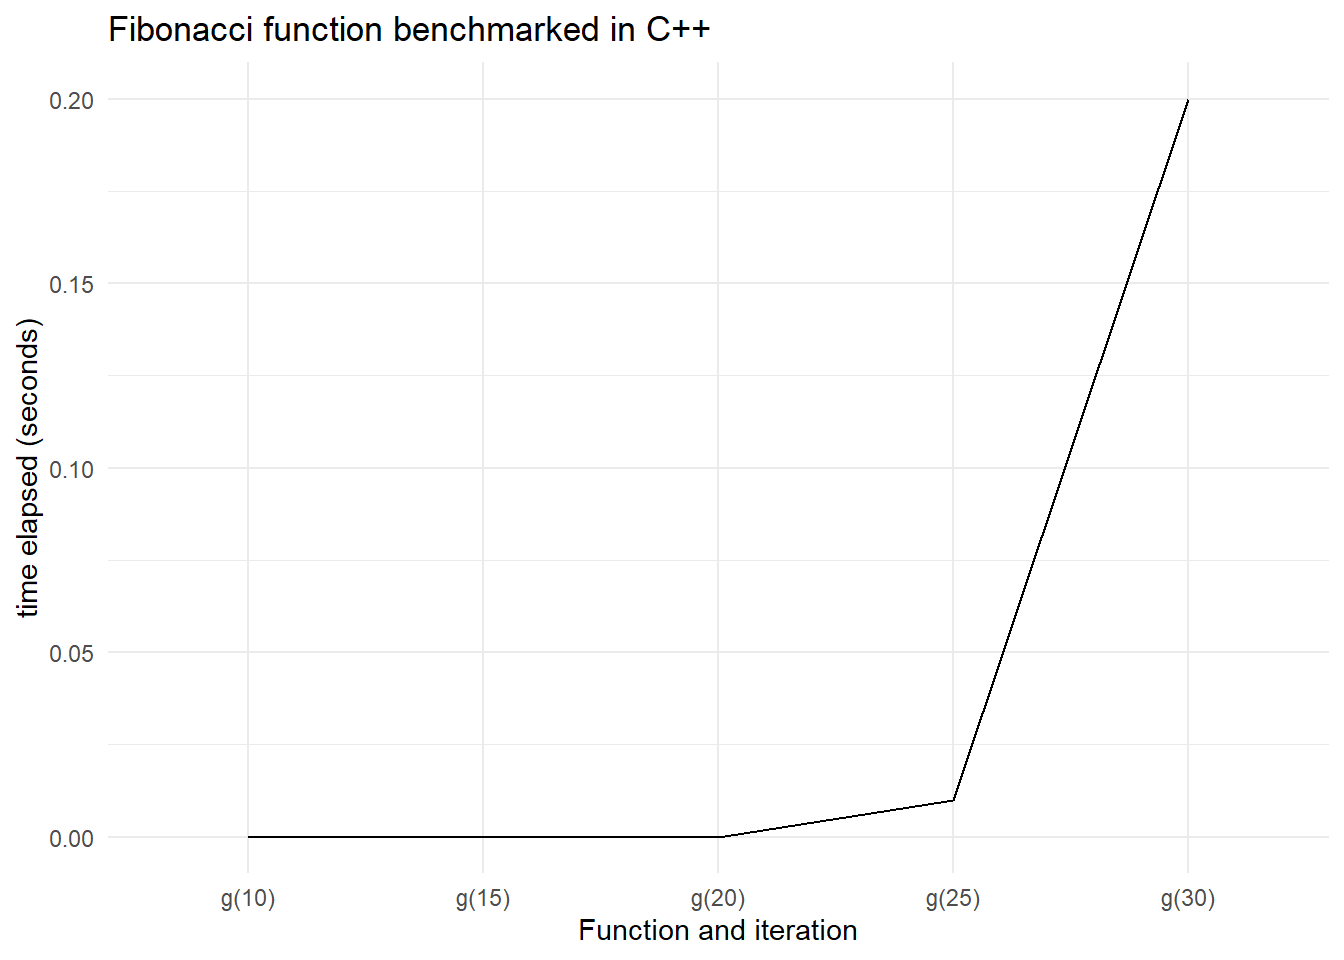
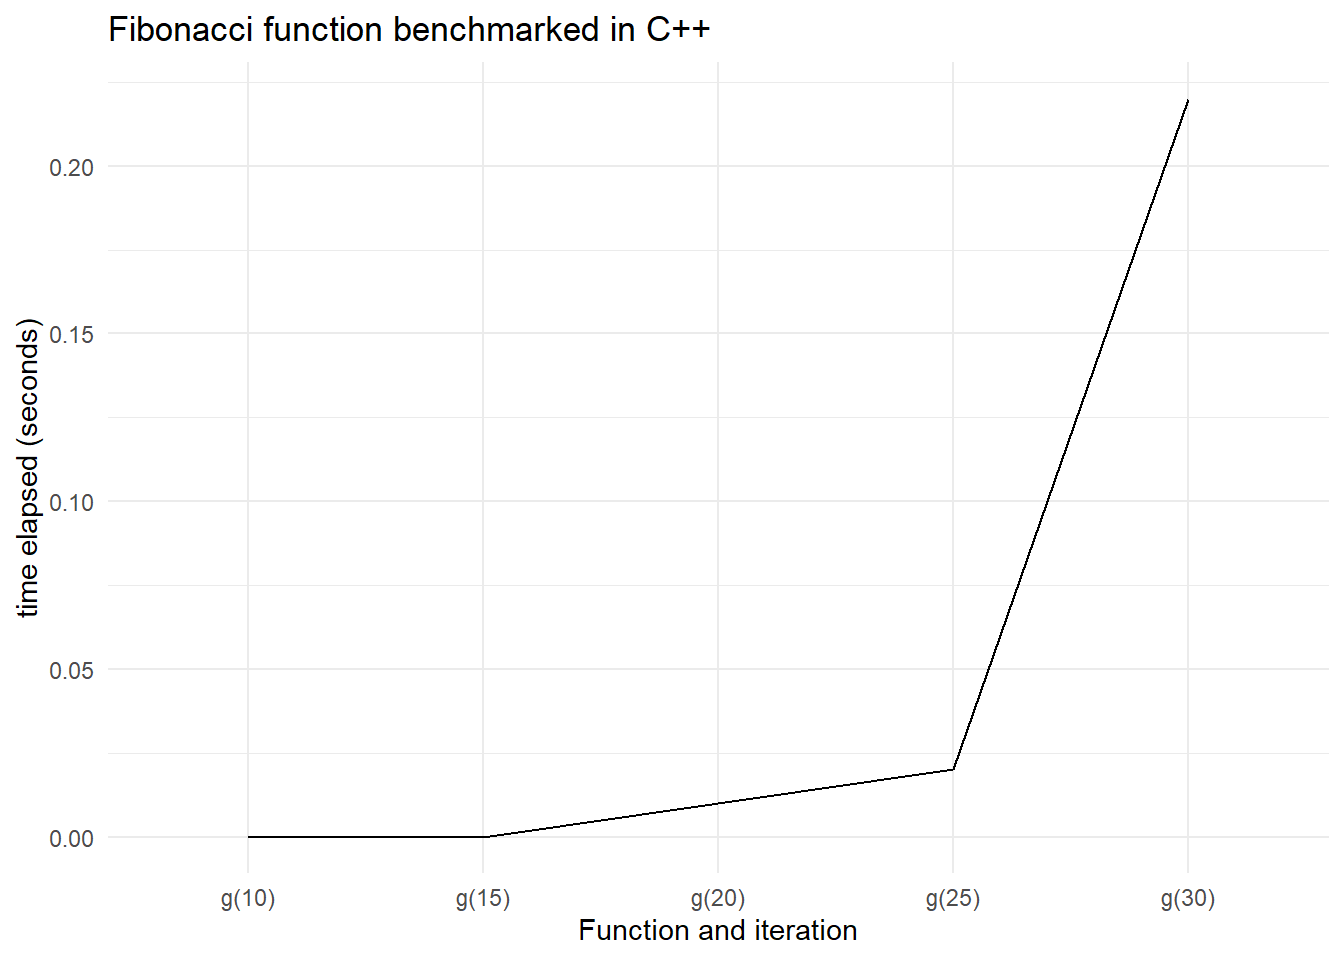
automated commit

diff --git a/public/2021/03/23/rcpp-integration/index.html b/public/2021/03/23/rcpp-integration/index.html
@@ -107,11 +107,11 @@ sapply(1:10, f)</code></pre>
 
 Rscores</code></pre>
 <pre><code>##    test replications elapsed relative
-## 1 f(10)          100    0.00       NA
-## 2 f(15)          100    0.08       NA
-## 3 f(20)          100    0.82       NA
-## 4 f(25)          100    8.97       NA
-## 5 f(30)          100   97.26       NA</code></pre>
+## 1 f(10)          100    0.02      1.0
+## 2 f(15)          100    0.06      3.0
+## 3 f(20)          100    0.85     42.5
+## 4 f(25)          100    8.72    436.0
+## 5 f(30)          100   98.03   4901.5</code></pre>
 <pre class="r"><code>p &lt;- Rscores %&gt;% 
   filter(elapsed&gt;0) %&gt;% 
   ggplot(aes(test,elapsed, group = 1))+
@@ -140,9 +140,9 @@ Cscores</code></pre>
 <pre><code>##    test replications elapsed relative
 ## 1 g(10)          100    0.00       NA
 ## 2 g(15)          100    0.00       NA
-## 3 g(20)          100    0.00       NA
-## 4 g(25)          100    0.01       NA
-## 5 g(30)          100    0.20       NA</code></pre>
+## 3 g(20)          100    0.01       NA
+## 4 g(25)          100    0.02       NA
+## 5 g(30)          100    0.22       NA</code></pre>
 <pre class="r"><code>p &lt;- Cscores %&gt;% 
   ggplot(aes(test,elapsed, group = 1))+
   geom_line()+ theme_minimal()+
@@ -152,7 +152,18 @@ Cscores</code></pre>
 
 print(p)</code></pre>
 <p><img src="/2021/03/23/rcpp-integration/index_files/figure-html/cplot-1.png" width="672" /></p>
+<pre class="r"><code>last_elapsed_r &lt;- Rscores %&gt;% tail(1)
+
+last_elapsed_r &lt;- last_elapsed_r[[3]]
+
+last_elapsed_c &lt;- Cscores %&gt;% tail(1)
+
+last_elapsed_c &lt;- last_elapsed_c[[3]]</code></pre>
 </div>
+</div>
+<div id="conclusion" class="section level1">
+<h1>Conclusion</h1>
+<p>The speed gains in calculating the 30th iteration of the Fibonacci sequence within C++ (0.22 seconds) massively outperforms R (98.03 seconds).</p>
 </div>
 
     </div>

diff --git a/content/post/2021-03-23-rcpp-integration/index.html b/content/post/2021-03-23-rcpp-integration/index.html
@@ -41,11 +41,11 @@ sapply(1:10, f)</code></pre>
 
 Rscores</code></pre>
 <pre><code>##    test replications elapsed relative
-## 1 f(10)          100    0.00       NA
-## 2 f(15)          100    0.08       NA
-## 3 f(20)          100    0.82       NA
-## 4 f(25)          100    8.97       NA
-## 5 f(30)          100   97.26       NA</code></pre>
+## 1 f(10)          100    0.02      1.0
+## 2 f(15)          100    0.06      3.0
+## 3 f(20)          100    0.85     42.5
+## 4 f(25)          100    8.72    436.0
+## 5 f(30)          100   98.03   4901.5</code></pre>
 <pre class="r"><code>p &lt;- Rscores %&gt;% 
   filter(elapsed&gt;0) %&gt;% 
   ggplot(aes(test,elapsed, group = 1))+
@@ -74,9 +74,9 @@ Cscores</code></pre>
 <pre><code>##    test replications elapsed relative
 ## 1 g(10)          100    0.00       NA
 ## 2 g(15)          100    0.00       NA
-## 3 g(20)          100    0.00       NA
-## 4 g(25)          100    0.01       NA
-## 5 g(30)          100    0.20       NA</code></pre>
+## 3 g(20)          100    0.01       NA
+## 4 g(25)          100    0.02       NA
+## 5 g(30)          100    0.22       NA</code></pre>
 <pre class="r"><code>p &lt;- Cscores %&gt;% 
   ggplot(aes(test,elapsed, group = 1))+
   geom_line()+ theme_minimal()+
@@ -86,5 +86,16 @@ Cscores</code></pre>
 
 print(p)</code></pre>
 <p><img src="{{< blogdown/postref >}}index_files/figure-html/cplot-1.png" width="672" /></p>
+<pre class="r"><code>last_elapsed_r &lt;- Rscores %&gt;% tail(1)
+
+last_elapsed_r &lt;- last_elapsed_r[[3]]
+
+last_elapsed_c &lt;- Cscores %&gt;% tail(1)
+
+last_elapsed_c &lt;- last_elapsed_c[[3]]</code></pre>
 </div>
+</div>
+<div id="conclusion" class="section level1">
+<h1>Conclusion</h1>
+<p>The speed gains in calculating the 30th iteration of the Fibonacci sequence within C++ (0.22 seconds) massively outperforms R (98.03 seconds).</p>
 </div>
